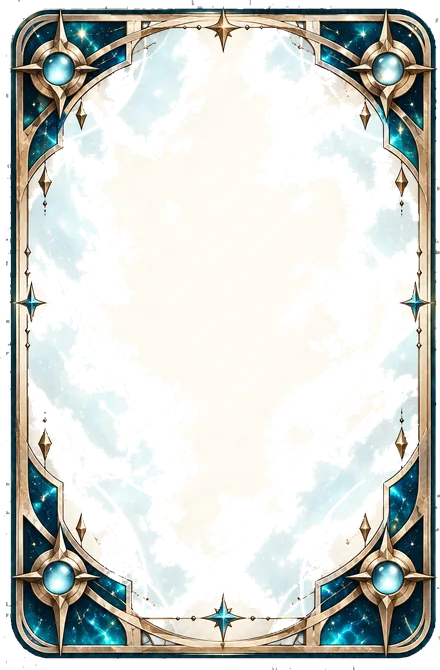
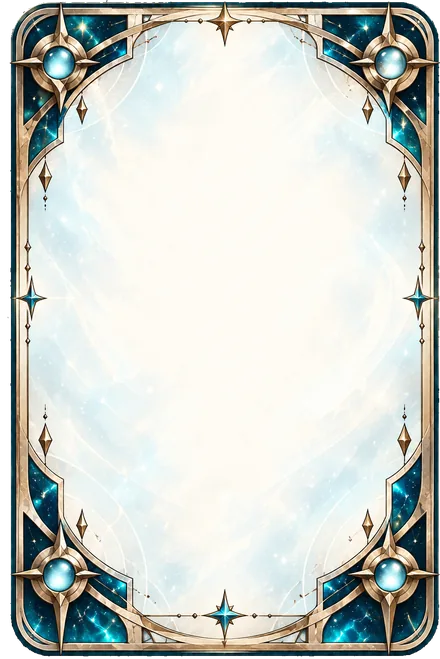
v144: プレイヤーの手札カードが透けるバグを修正
- 原因: 市松背景の除去処理が、カード内部の明るいクリーム色を
  市松と誤判定して穴を開けていた（中央部の不透明率91.2%）
- 外周と連結した領域だけを背景とみなす方式に変更し、
  カード内部を保護（中央部100%に回復）
- card-player-orby.webp 109KB → 42KB
- 他3枚（通常/星環/裏面）は中央100%で問題なしを確認

diff --git a/index.html b/index.html
@@ -3017,7 +3017,8 @@ function TutorialScreen({pendingDiff,onFinish,onExit,trackNum,toggleMusic,coachN
 
 
 // ── MenuScreen ──
-const APP_VER='v143'; // v143(2026/09/11): オルビィの技名を「再観測」「捕獲軌道」「不可観測」に変更し、それぞれ専用の色と台詞を設定。技名の表示時間を1.4秒→2.0秒
+const APP_VER='v144'; // v144(2026/09/11): プレイヤーの手札カードが透けて背景と重なって見えるバグを修正。市松除去がカード内部の明るい部分まで抜いていた
+// v143(2026/09/11): オルビィの技名を「再観測」「捕獲軌道」「不可観測」に変更し、それぞれ専用の色と台詞を設定。技名の表示時間を1.4秒→2.0秒
 // v142(2026/09/09): オルビィ戦の専用BGM「Clockwork Waltz」を追加（3.3MB→2.0MB、既存曲と同じ112kbps）
 // v141(2026/09/09): 奪われた札がオルビィの手札に加わった瞬間を光らせる演出を追加（絵は要素側で決まるため自動でオルビィのデザインになる）
 // v140(2026/09/09): チャレンジ④「オルビィ」追加。相手に10を作らせない封殺思考＋星環3種（手札シャッフル／3枚強奪／5ラウンド裏返し）
